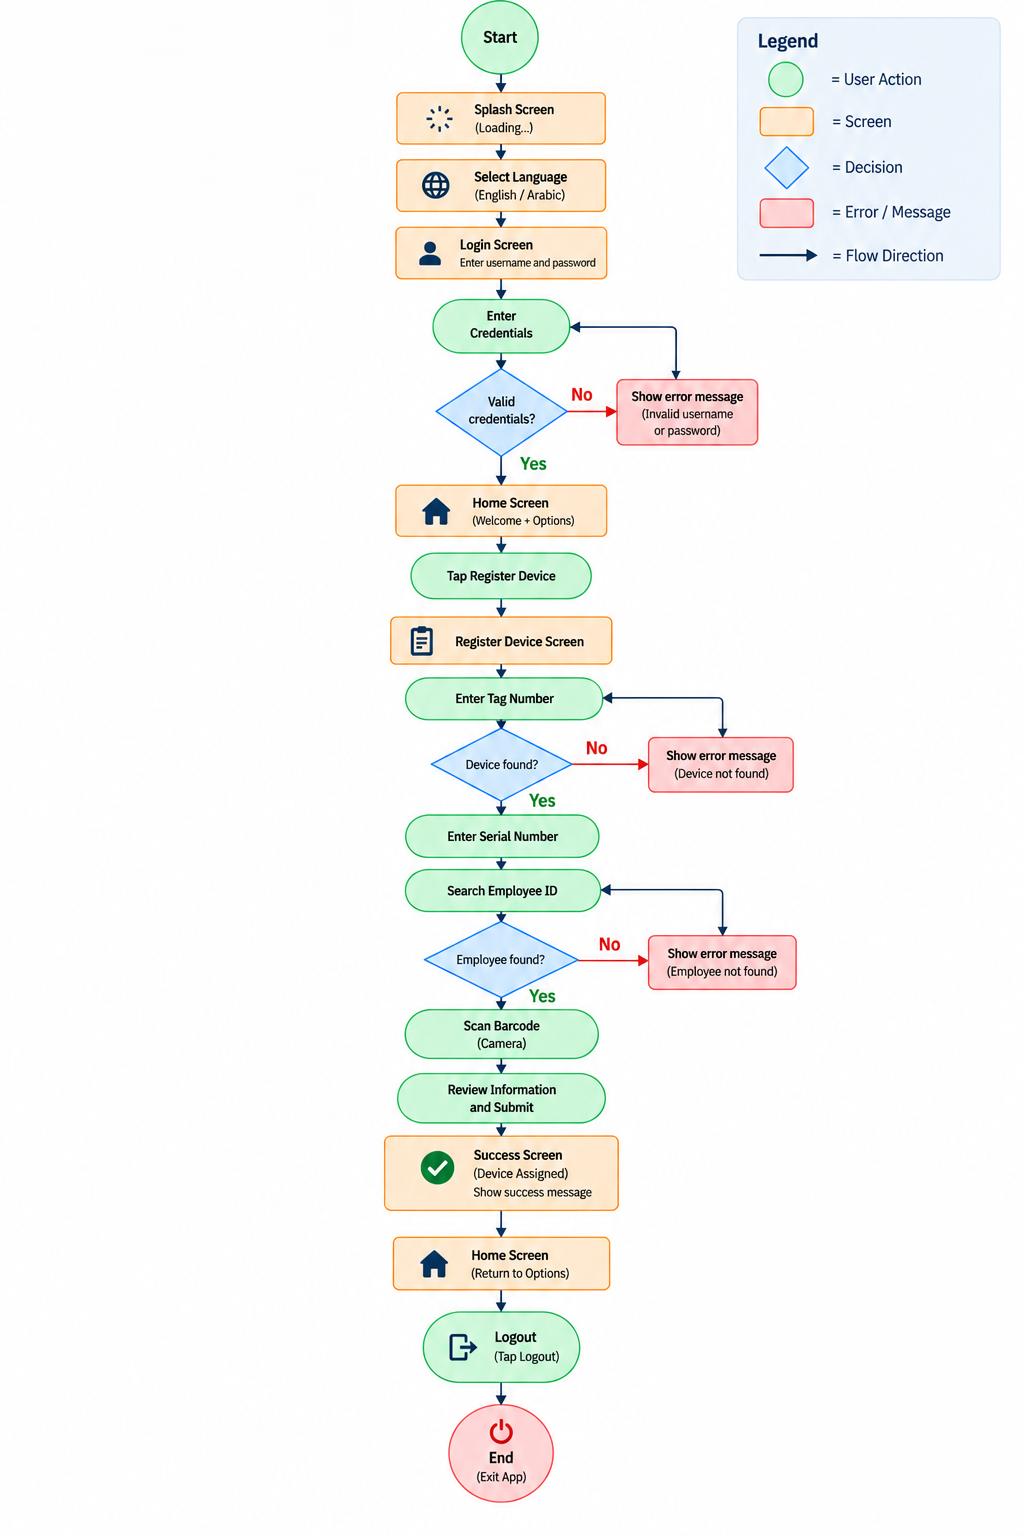
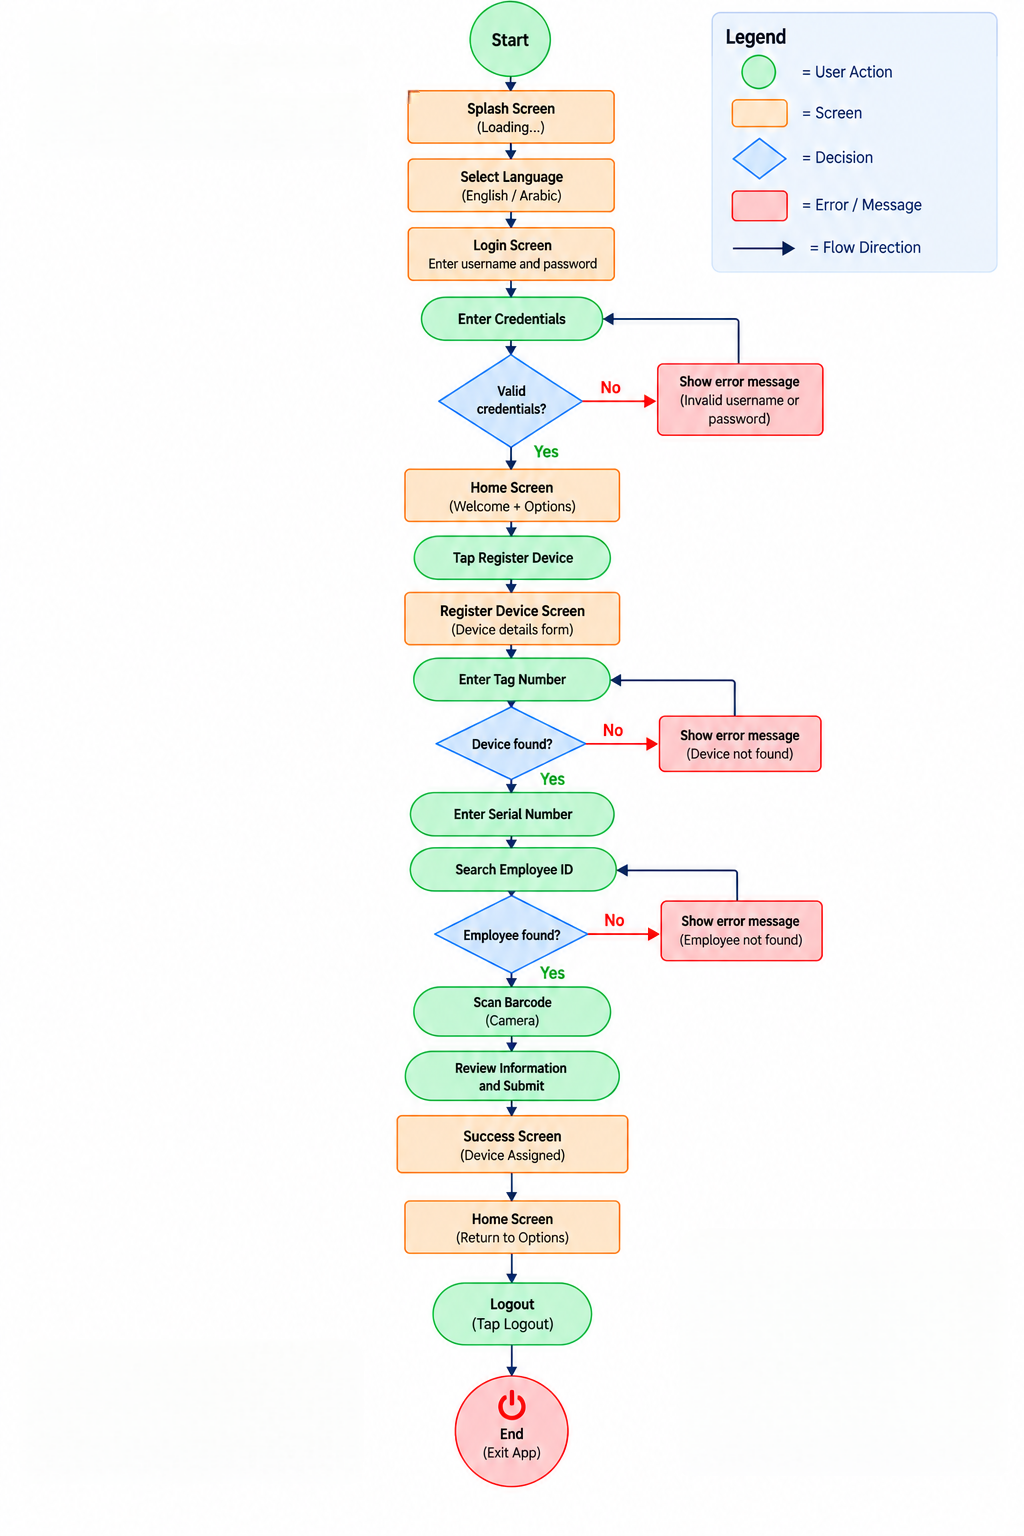
Update README user flow

Changed region(s): [[0.375, 0.0, 0.8125, 1.0], [0.6875, 0.0, 0.9375, 0.1875]]

diff --git a/README.md b/README.md
@@ -4,6 +4,8 @@
 
 ![User Flow](ScreenShots/user%20flow.png)
 
+## Overview
+
 A Flutter application for IT Department to register and manage employee device assignments. The app supports device lookup, employee verification, barcode scanning, and assignment updates through a simple mobile workflow.
 
 ## Screens
